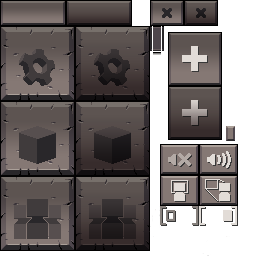
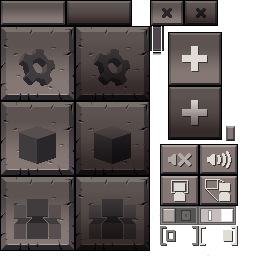
Updated touchgui.png texture, ON/OFF toggle, to the version used in Minecraft PE 0.7.0 and later, as the previous one looked bad

Changed region(s): [[0.625, 0.7812, 0.9375, 0.9688]]

diff --git a/handheld/src/client/gui/components/OptionsGroup.cpp b/handheld/src/client/gui/components/OptionsGroup.cpp
@@ -39,10 +39,10 @@ OptionsGroup& OptionsGroup::addOptionItem( const Options::Option* option, Minecr
 
 void OptionsGroup::createToggle( const Options::Option* option, Minecraft* minecraft ) {
 	ImageDef def;
-	def.setSrc(IntRectangle(160, 206, 39, 20));
+	def.setSrc(IntRectangle(160, 206, 38, 19));
 	def.name = "gui/touchgui.png";
-	def.width = 39 * 0.7f;
-	def.height = 20 * 0.7f;
+	def.width = 38 * 1.0f;
+	def.height = 19 * 1.0f;
 	OptionButton* element = new OptionButton(option);
 	element->setImageDef(def, true);
 	element->updateImage(&minecraft->options);
